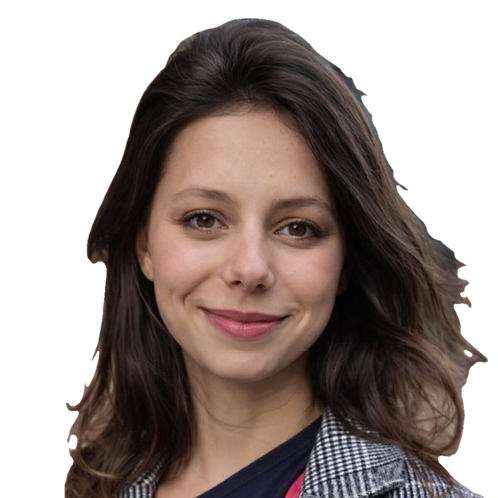
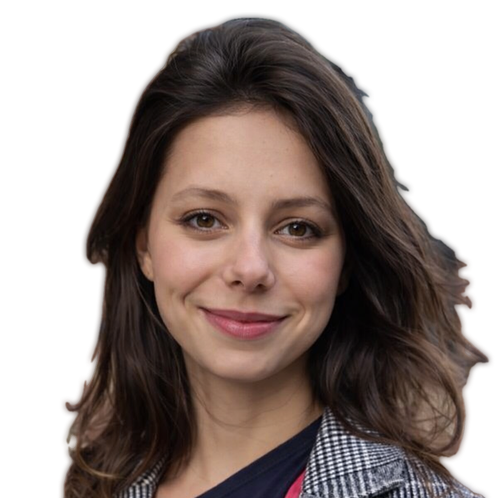
fix(content): update Alyona Laskina's card and rename reWorked to Реворк
Alyona's new role (Fullstack developer at IToolabs), her Telegram and channel, a line about
herself, and a cleaner portrait: the holes the cut-out left in her hair are closed and the edge
is smoothed with the colour of the neighbouring hair instead of the old background. The
community reWorked is now called Реворк (Rework in English).

diff --git a/packages/content/src/organizers/ru/alyona-laskina.md b/packages/content/src/organizers/ru/alyona-laskina.md
@@ -2,8 +2,12 @@
 name: "Алёна Ласкина"
 status: current
 photo: ../assets/alyona-laskina.png
+contacts:
+  telegram: https://t.me/rebirth8
+  channel: https://t.me/moscovite_diary
 ---
 
-- Frontend developer в группе компаний БПО
+- Fullstack developer в компании IToolabs
 - 4 года опыта
 - стек: Vue.js, Nuxt.js, TypeScript, TanStack, Quasar, Pinia, Vite
+- Люблю путешествовать, заниматься спортом и разговаривать про технологии

diff --git a/packages/content/src/organizers/en/alyona-laskina.md b/packages/content/src/organizers/en/alyona-laskina.md
@@ -2,8 +2,12 @@
 name: "Alyona Laskina"
 status: current
 photo: ../assets/alyona-laskina.png
+contacts:
+  telegram: https://t.me/rebirth8
+  channel: https://t.me/moscovite_diary
 ---
 
-- Frontend developer at BPO group of companies
+- Fullstack developer at IToolabs
 - 4 years of experience
 - Stack: Vue.js, Nuxt.js, TypeScript, TanStack, Quasar, Pinia, Vite
+- Loves travelling, sports and talking about technology

diff --git a/packages/content/src/communities/ru/reworked.md b/packages/content/src/communities/ru/reworked.md
@@ -1,5 +1,5 @@
 ---
-name: "reWorked"
+name: "Реворк"
 url: "https://t.me/reworkedconf"
 logo: ../assets/reworked.svg
 links:

diff --git a/packages/content/src/communities/en/reworked.md b/packages/content/src/communities/en/reworked.md
@@ -1,5 +1,5 @@
 ---
-name: "reWorked"
+name: "Rework"
 url: "https://t.me/reworkedconf"
 logo: ../assets/reworked.svg
 links:
